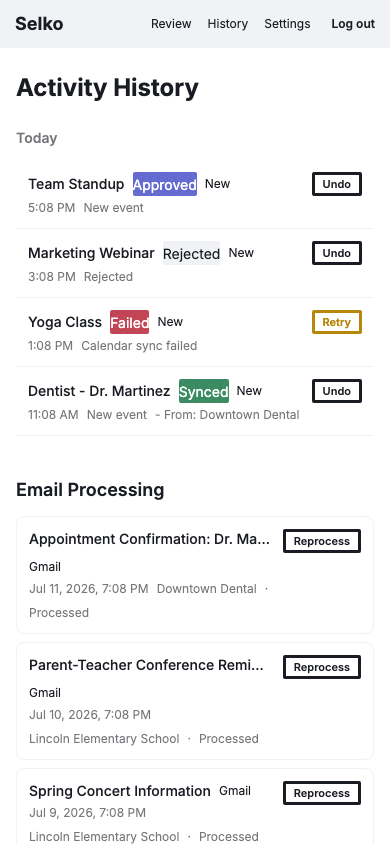
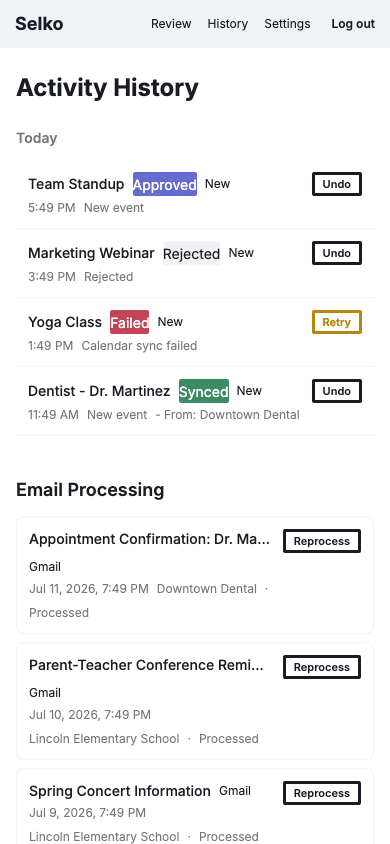
fix: close email reliability review gaps

diff --git a/frontend/src/routes/app/history/+page.svelte b/frontend/src/routes/app/history/+page.svelte
@@ -121,9 +121,10 @@
 		isLoadingMore = false;
 	}
 
-	async function loadEmailHistory() {
+	/** @param {number} [requestedLimit] */
+	async function loadEmailHistory(requestedLimit = 20) {
 		emailLoadError = '';
-		const result = await fetchEmailHistory({ limit: 20, offset: 0 });
+		const result = await fetchEmailHistory({ limit: requestedLimit, offset: 0 });
 		if (result.error) {
 			emailLoadError = result.error.message;
 		} else {
@@ -233,6 +234,10 @@
 			if (state && ['processed', 'failed'].includes(state.processing_status)) {
 				stopEmailPolling(emailId);
 				stopEmailProcessing(emailId);
+				// Reprocessing temporarily removes the row from the server-side
+				// processed/failed result set. Refresh the complete loaded window so
+				// offset pagination cannot skip the row that shifted across a page.
+				await loadEmailHistory(Math.max(emailOffset, 20));
 				return;
 			}
 			attempts += 1;

diff --git a/frontend/src/routes/app/history/__tests__/page.test.js b/frontend/src/routes/app/history/__tests__/page.test.js
@@ -358,8 +358,12 @@ describe('History Page', () => {
 
 	it('polls a reprocessed email until it reaches processed', async () => {
 		const user = userEvent.setup();
-		mockFetchEmailHistory.mockResolvedValue({
+		mockFetchEmailHistory.mockResolvedValueOnce({
 			data: [{ id: 'email-1', subject: 'Retry me', email_provider: 'gmail', processing_status: 'failed', processing_outcome: null, date_sent: new Date().toISOString() }],
+			count: 1,
+			error: null
+		}).mockResolvedValueOnce({
+			data: [{ id: 'email-1', subject: 'Retry me', email_provider: 'gmail', processing_status: 'processed', processing_outcome: 'event_matched', date_sent: new Date().toISOString() }],
 			count: 1,
 			error: null
 		});
@@ -373,6 +377,7 @@ describe('History Page', () => {
 
 		await waitFor(() => expect(mockQueueEmailReprocess).toHaveBeenCalledWith('email-1'));
 		await waitFor(() => expect(screen.getByText('Existing event matched')).toBeInTheDocument(), { timeout: 3000 });
+		expect(mockFetchEmailHistory).toHaveBeenLastCalledWith({ limit: 20, offset: 0 });
 		expect(screen.getByRole('button', { name: 'Reprocess' })).not.toBeDisabled();
 	});
 

diff --git a/frontend/src/lib/services/email-history.js b/frontend/src/lib/services/email-history.js
@@ -18,6 +18,7 @@ export async function fetchEmailHistory(options = {}) {
 			)
 			.in('processing_status', ['processed', 'failed'])
 			.order('date_sent', { ascending: false })
+			.order('id', { ascending: false })
 			.range(offset, offset + limit - 1);
 		if (error) throw error;
 		return { data: data ?? [], count, error: null };

diff --git a/backend/tests/test_reliable_email_history.py b/backend/tests/test_reliable_email_history.py
@@ -21,8 +21,16 @@ from selko.services.gmail import (
     fetch_history_message_ids,
 )
 from selko.services.emails import complete_email_processing
-from selko.services.outlook import fetch_mail_folders, normalize_mail_folders
-from selko.workers.email_fetch import _process_gmail_reliable
+from selko.services.outlook import (
+    GraphHttpError,
+    fetch_mail_folders,
+    normalize_mail_folders,
+)
+from selko.workers.email_fetch import (
+    _process_gmail_reliable,
+    _process_outlook_reliable,
+    _reconcile_missing_outlook_folders,
+)
 
 
 def test_initial_gmail_query_is_bounded_and_excludes_arbitrary_user_labels():
@@ -118,6 +126,32 @@ def test_outlook_folder_discovery_uses_immutable_ids_and_does_not_traverse_forbi
     assert next(folder for folder in folders if folder["id"] == "immutable-inbox")["wellKnownName"] == "inbox"
 
 
+def test_outlook_conversation_history_is_never_discovered_or_traversed():
+    aliases = {"conversationhistory": "conversation-history-id"}
+    child_requests = []
+
+    def graph_get(_token, url, **_kwargs):
+        if url.endswith("/mailFolders"):
+            return {
+                "value": [
+                    {
+                        "id": "conversation-history-id",
+                        "displayName": "Conversation History",
+                    },
+                    {"id": "custom", "displayName": "Newsletters"},
+                ]
+            }
+        if "/childFolders" in url:
+            child_requests.append(url)
+        return {"value": []}
+
+    with patch("selko.services.outlook._graph_get", side_effect=graph_get):
+        folders = fetch_mail_folders("token", resolved_well_known_ids=aliases)
+
+    assert [folder["id"] for folder in folders] == ["custom"]
+    assert all("conversation-history-id" not in request for request in child_requests)
+
+
 def test_upsert_does_not_classify_eligible_system_folders_and_preserves_scan_metadata():
     client = MagicMock()
     client.table.return_value.select.return_value.eq.return_value.execute.return_value = MagicMock(data=[])
@@ -146,6 +180,104 @@ def test_upsert_does_not_classify_eligible_system_folders_and_preserves_scan_met
     assert row["is_scannable"] is True
     assert row["is_included"] is True
     gateway.for_user.assert_not_called()
+
+
+def test_upsert_normalizes_stale_system_folder_exclusion():
+    client = MagicMock()
+    stale = {
+        "provider_folder_id": "inbox-id",
+        "name": "Inbox",
+        "full_path": "Inbox",
+        "is_included": False,
+        "user_override": True,
+    }
+    client.table.return_value.select.return_value.eq.return_value.execute.return_value = MagicMock(
+        data=[stale]
+    )
+    client.table.return_value.upsert.return_value.execute.return_value = MagicMock(data=[])
+
+    upsert_discovered_folders(
+        client,
+        user_id="user-1",
+        integration_id="integration-1",
+        provider="outlook",
+        folders=[{
+            "id": "inbox-id",
+            "name": "Inbox",
+            "full_path": "Inbox",
+            "kind": "folder",
+            "is_system": True,
+            "is_scannable": True,
+            "system_kind": "inbox",
+        }],
+    )
+
+    row = client.table.return_value.upsert.call_args.args[0][0]
+    assert row["is_included"] is True
+    assert row["user_override"] is False
+
+
+def test_reconcile_missing_outlook_folders_removes_only_stale_configuration():
+    client = MagicMock()
+    rows = [
+        {"id": "row-current", "provider_folder_id": "current"},
+        {"id": "row-deleted", "provider_folder_id": "deleted"},
+    ]
+
+    with patch("selko.workers.email_fetch._outlook_folder_rows", return_value=rows):
+        _reconcile_missing_outlook_folders(client, "integration-1", {"current"})
+
+    client.table.assert_called_once_with("email_folders")
+    client.table.return_value.delete.return_value.eq.assert_called_once_with(
+        "id", "row-deleted"
+    )
+    client.table.return_value.delete.return_value.eq.return_value.execute.assert_called_once()
+
+
+def test_outlook_deleted_folder_does_not_block_later_folder_sync():
+    client = MagicMock()
+    deleted = {
+        "id": "row-deleted",
+        "provider_folder_id": "deleted",
+        "full_path": "Deleted custom folder",
+        "is_included": True,
+        "is_scannable": True,
+    }
+    current = {
+        "id": "row-current",
+        "provider_folder_id": "current",
+        "full_path": "Current folder",
+        "is_included": True,
+        "is_scannable": True,
+    }
+
+    with (
+        patch("selko.workers.email_fetch.get_access_token", return_value="token"),
+        patch("selko.workers.email_fetch.resolve_well_known_folder_ids", return_value={}),
+        patch("selko.workers.email_fetch.fetch_mail_folders", return_value=[]),
+        patch("selko.workers.email_fetch.normalize_mail_folders", return_value=[]),
+        patch("selko.workers.email_fetch._reconcile_outlook_forbidden_folders"),
+        patch("selko.workers.email_fetch.upsert_discovered_folders"),
+        patch("selko.workers.email_fetch._reconcile_missing_outlook_folders"),
+        patch("selko.workers.email_fetch._folder_classifier_gateway", return_value=None),
+        patch("selko.workers.email_fetch._outlook_folder_rows", return_value=[deleted, current]),
+        patch(
+            "selko.workers.email_fetch.fetch_message_changes",
+            side_effect=[GraphHttpError(404, "folder missing"), ([], "cursor-current")],
+        ) as fetch_changes,
+        patch("selko.workers.email_fetch._remove_outlook_folder_row") as remove_folder,
+        patch("selko.workers.email_fetch._save_folder_cursor") as save_cursor,
+    ):
+        _process_outlook_reliable(
+            client,
+            MagicMock(),
+            {"user_id": "user-1"},
+            {"id": "integration-1"},
+        )
+
+    assert fetch_changes.call_count == 2
+    remove_folder.assert_called_once_with(client, deleted)
+    save_cursor.assert_called_once_with(client, current, "cursor-current")
 
 
 def test_folder_preference_uses_restricted_rpc_instead_of_table_update():

diff --git a/backend/selko/workers/email_fetch.py b/backend/selko/workers/email_fetch.py
@@ -38,6 +38,7 @@ from selko.services.gmail import (
     list_message_ids,
 )
 from selko.services.outlook import (
+    GraphHttpError,
     OUTLOOK_HIDDEN_SYSTEM_ALIASES,
     OUTLOOK_PERMANENT_ALIASES,
     RESYNC_REQUIRED,
@@ -539,6 +540,24 @@ def _reconcile_outlook_forbidden_folders(
     ).execute()
 
 
+def _remove_outlook_folder_row(client: Client, folder: dict[str, Any]) -> None:
+    """Remove folder configuration without touching historical emails."""
+
+    client.table("email_folders").delete().eq("id", folder["id"]).execute()
+
+
+def _reconcile_missing_outlook_folders(
+    client: Client,
+    integration_id: str,
+    discovered_folder_ids: set[str],
+) -> None:
+    """Remove configurations for custom folders no longer returned by Graph."""
+
+    for folder in _outlook_folder_rows(client, integration_id):
+        if folder.get("provider_folder_id") not in discovered_folder_ids:
+            _remove_outlook_folder_row(client, folder)
+
+
 def _process_outlook_reliable(
     client: Client,
     config: Config,
@@ -575,6 +594,11 @@ def _process_outlook_reliable(
         folders=discovered,
         gateway=_folder_classifier_gateway(client, config),
     )
+    _reconcile_missing_outlook_folders(
+        client,
+        integration_id,
+        {folder["id"] for folder in discovered},
+    )
     folder_rows = _outlook_folder_rows(client, integration_id)
     since = datetime.now(timezone.utc) - timedelta(days=14)
 
@@ -598,20 +622,27 @@ def _process_outlook_reliable(
                 since=since if not cursor else None,
                 immutable_ids=True,
             )
+            if new_cursor == RESYNC_REQUIRED:
+                changes, new_cursor = fetch_message_changes(
+                    token,
+                    None,
+                    folder_id=folder["provider_folder_id"],
+                    since=since,
+                    immutable_ids=True,
+                )
+                if new_cursor == RESYNC_REQUIRED:
+                    raise OutlookError(
+                        f"Outlook delta cursor expired during resync for folder {folder['full_path']}"
+                    )
+        except GraphHttpError as exc:
+            if exc.status_code == 404:
+                # The folder may have been deleted or moved after discovery.
+                # Remove only its configuration and let other folders sync.
+                _remove_outlook_folder_row(client, folder)
+                continue
+            raise
         except OutlookError:
             raise
-        if new_cursor == RESYNC_REQUIRED:
-            changes, new_cursor = fetch_message_changes(
-                token,
-                None,
-                folder_id=folder["provider_folder_id"],
-                since=since,
-                immutable_ids=True,
-            )
-            if new_cursor == RESYNC_REQUIRED:
-                raise OutlookError(
-                    f"Outlook delta cursor expired during resync for folder {folder['full_path']}"
-                )
 
         for change in changes:
             message_id = change["id"]

diff --git a/backend/selko/services/email_folders.py b/backend/selko/services/email_folders.py
@@ -146,7 +146,11 @@ def upsert_discovered_folders(
                 decision="include",
                 reason="This provider system folder is included automatically.",
             )
-            is_included = bool(prior.get("is_included", True)) if prior else True
+            # Normalize rows created before system-folder recognition. Eligible
+            # system folders are mandatory sources and are hidden from Settings,
+            # so preserving an old user exclusion would make it impossible to
+            # correct there.
+            is_included = True
             user_override = False
             is_scannable = True
         elif prior and prior.get("user_override"):

diff --git a/backend/selko/services/outlook.py b/backend/selko/services/outlook.py
@@ -50,12 +50,12 @@ OUTLOOK_HIDDEN_SYSTEM_ALIASES = {
     "recoverableitemsdeletions",
     "recoverableitemspurges",
     "recoverableitemsversions",
+    "conversationhistory",
 }
 OUTLOOK_ELIGIBLE_SYSTEM_ALIASES = {
     "inbox",
     "archive",
     "clutter",
-    "conversationhistory",
 }
 OUTLOOK_SYSTEM_ALIASES = (
     OUTLOOK_PERMANENT_ALIASES